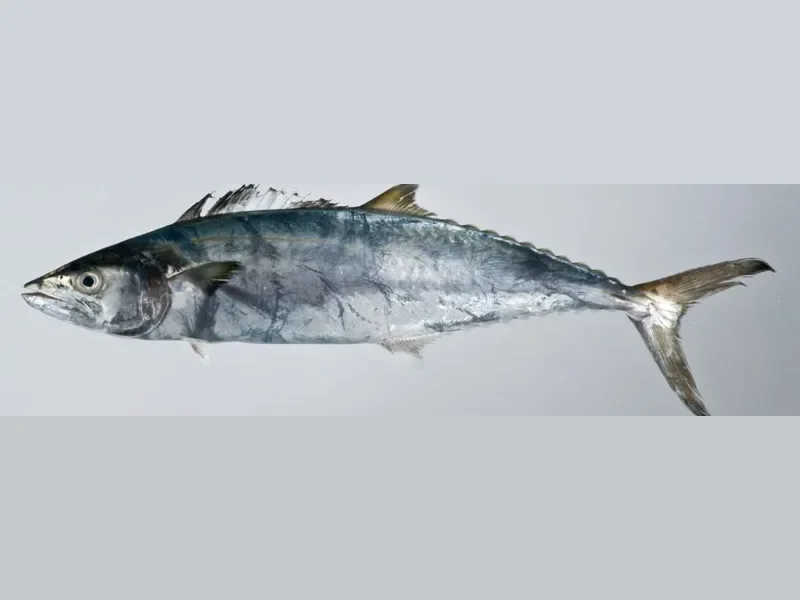
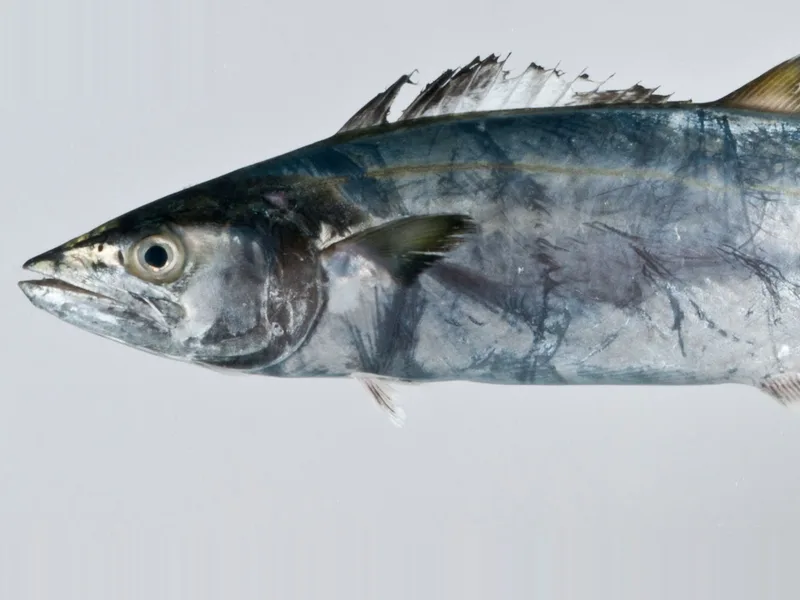
Storefront polish: tighter cards, short weight line, real King Fish crop, offer band
- Homepage drops the "Browse by category" cards; filter chips and
  category pages stay.
- Product cards keep name, weight line and price together and size to
  their own content, so no empty gap opens above the buttons.
- Weight line reads e.g. "500 g · 1 kg (net)", "1 kg (before cleaning)",
  "1 · 2 trays (30 eggs each)".
- King Fish photo rebuilt from the public-domain original: labels painted
  out, true 4:3 head-and-body crop, no grey fill bands.
- Offer section: red gradient band, at least 380px on desktop with content
  centred; content-sized with comfortable padding on mobile.

diff --git a/src/app/globals.css b/src/app/globals.css
@@ -854,3 +854,32 @@ h3 { letter-spacing:.01em; }
 .fresh-band .catalog-filters button[aria-pressed=true] { background:var(--brand-red); border-color:var(--brand-red); color:white; }
 .fresh-band .product-card { background:white; color:var(--text-primary); border-color:transparent; box-shadow:0 8px 24px rgb(0 0 0 / 28%); }
 .fresh-band .empty-results { background:white; color:var(--text-primary); border-radius:12px; }
+
+/* Product card: name, weights and price stay together; buttons sit at the bottom. */
+.product-body h3 { min-height:0; margin-bottom:4px; }
+.product-cut { min-height:0; }
+.local-name { min-height:0; margin-bottom:4px; }
+.product-body .card-weight-note { margin:0 0 6px; font-size:12px; line-height:1.45; }
+.card-price { margin:0 0 14px; line-height:1.3; }
+.card-price strong { font-size:21px; color:var(--text-primary); }
+@media(max-width:767px) {
+  .product-body .card-weight-note { font-size:11px; }
+  .card-price { margin-bottom:12px; }
+  .card-price strong { font-size:18px; }
+}
+
+/* Offers: a coloured band, content centred; at least 380px tall on desktop, content-sized on mobile. */
+.offer-pane { display:flex; align-items:center; min-height:380px; padding:48px 0; border-bottom:0; background:linear-gradient(135deg,var(--brand-red) 0%,var(--brand-red-dark) 100%); color:white; }
+.offer-pane .container { display:grid; gap:16px; justify-items:center; text-align:center; }
+.offer-pane .offer-list { gap:18px; max-width:760px; }
+.offer-pane .offer-list strong { color:white; font-family:var(--font-heading); font-size:clamp(24px,3vw,36px); text-transform:uppercase; letter-spacing:.02em; line-height:1.2; }
+.offer-pane .offer-list p { color:rgb(255 255 255 / 88%); font-size:15px; }
+.offer-pane .field-help { color:rgb(255 255 255 / 75%); max-width:640px; margin:0; font-size:12px; }
+@media(max-width:767px) {
+  .offer-pane { min-height:0; padding:28px 0; }
+  .offer-pane .offer-list strong { font-size:22px; }
+  .offer-pane .offer-list p { font-size:14px; }
+}
+.product-grid { align-items:start; }
+.product-grid .product-card { height:auto; }
+.product-bottom { margin-top:0; }

diff --git a/src/components/product/product-card.tsx b/src/components/product/product-card.tsx
@@ -1,7 +1,7 @@
-import { AddProductButton } from "@/components/product/add-product-button";
+import { AddProductButton } from "@/components/product/add-product-button";
 import Image from "next/image";
 import type { Product } from "@/types/catalog";
-import {priceLabel, quantityLabel, quantityOptions, quantityText} from "@/lib/pricing";
+import {cardQuantityLine, priceLabel} from "@/lib/pricing";
 export function ProductCard({ product }: { product: Product }) {
-  return <article className="product-card"><div className="product-image"><Image src={product.image} alt={product.imageAlt} width={480} height={360} sizes="(max-width: 767px) 46vw, (max-width: 1199px) 44vw, 23vw" /><span className={product.available ? "availability" : "availability unavailable"}>{product.orderable===false ? "Catalogue" : product.available ? "Available" : "Sold out"}</span></div><div className="product-body"><p className="product-cut">{product.cut}</p><h3>{product.name}</h3>{product.localName && <p className="local-name">{product.localName}</p>}<p className="card-weight-note">{quantityLabel(product)}: {quantityOptions(product).map(q=>quantityText(product,q)).join(" / ")}</p><div className="product-bottom"><p><strong>{priceLabel(product)}</strong></p><AddProductButton product={product} /></div></div></article>;
+  return <article className="product-card"><div className="product-image"><Image src={product.image} alt={product.imageAlt} width={480} height={360} sizes="(max-width: 767px) 46vw, (max-width: 1199px) 44vw, 23vw" /><span className={product.available ? "availability" : "availability unavailable"}>{product.orderable===false ? "Catalogue" : product.available ? "Available" : "Sold out"}</span></div><div className="product-body">{product.cut && <p className="product-cut">{product.cut}</p>}<h3>{product.name}</h3>{product.localName && <p className="local-name">{product.localName}</p>}<p className="card-weight-note">{cardQuantityLine(product)}</p><p className="card-price"><strong>{priceLabel(product)}</strong></p><div className="product-bottom"><AddProductButton product={product} /></div></div></article>;
 }

diff --git a/src/lib/pricing.ts b/src/lib/pricing.ts
@@ -5,6 +5,15 @@ export function quantityLabel(p: SalePricing) { return isRaw(p) ? 'Quantity (bef
 export function priceUnit(p: SalePricing) { return isRaw(p) ? 'kg' : p.pricingBasis === 'NET_WEIGHT' ? formatWeight(p.priceUnitGrams ?? 0)+' NET weight' : p.pricingBasis === 'TRAY' ? 'tray ('+p.unitsPerPack+' eggs)' : 'unit'; }
 export function priceLabel(p: SalePricing & {pricePerKg: number}) { return formatMoney(p.pricePaise ?? Math.round(p.pricePerKg*100))+' / '+priceUnit(p); }
 export function quantityOptions(p: Product) { return isRaw(p) ? p.selectableWeightsGrams : p.saleQuantities ?? []; }
+/** Short card line without repeated words: "500 g · 1 kg (before cleaning)", "500 g · 1 kg (net)", "1 · 2 trays (30 eggs each)". */
+export function cardQuantityLine(p: Product) {
+ const q = quantityOptions(p);
+ const plural = (one: string, many: string) => q.length === 1 && q[0] === 1 ? one : many;
+ if (isRaw(p)) return q.map(formatWeight).join(' · ') + ' (before cleaning)';
+ if (p.pricingBasis === 'NET_WEIGHT') return q.map(formatWeight).join(' · ') + ' (net)';
+ if (p.pricingBasis === 'TRAY') return q.join(' · ') + ' ' + plural('tray', 'trays') + ' (' + p.unitsPerPack + ' eggs each)';
+ return q.join(' · ') + ' ' + plural('unit', 'units');
+}
 export function quantityText(p: SalePricing, q: number) { return isRaw(p) ? formatWeight(q)+' raw' : p.pricingBasis === 'NET_WEIGHT' ? formatWeight(q)+' NET' : q+' '+(p.pricingBasis === 'TRAY' ? (q===1?'tray':'trays')+' ('+q*(p.unitsPerPack??0)+' eggs)' : (q===1?'unit':'units')); }
 export function saleTotal(p: SalePricing & {pricePerKg:number}, q: number) {
  const price=p.pricePaise ?? Math.round(p.pricePerKg*100);

diff --git a/src/app/page.tsx b/src/app/page.tsx
@@ -1,10 +1,8 @@
 import { Hero } from "@/components/home/hero";
-import { CategorySection } from "@/components/home/category-section";
 import { TrustSection } from "@/components/home/trust-section";
 import { CatalogBrowser } from "@/components/product/catalog-browser";
 import { liveCatalogue } from "@/lib/live-catalogue";
-import { shopCategories } from "@/lib/shop-categories";
 export default async function Home() {
   const products = await liveCatalogue();
-  return <><Hero /><CategorySection categories={shopCategories(products)} /><div className="fresh-band"><div className="container section fresh-section"><CatalogBrowser products={products} /></div></div><TrustSection /></>;
+  return <><Hero /><div className="fresh-band"><div className="container section fresh-section"><CatalogBrowser products={products} /></div></div><TrustSection /></>;
 }
